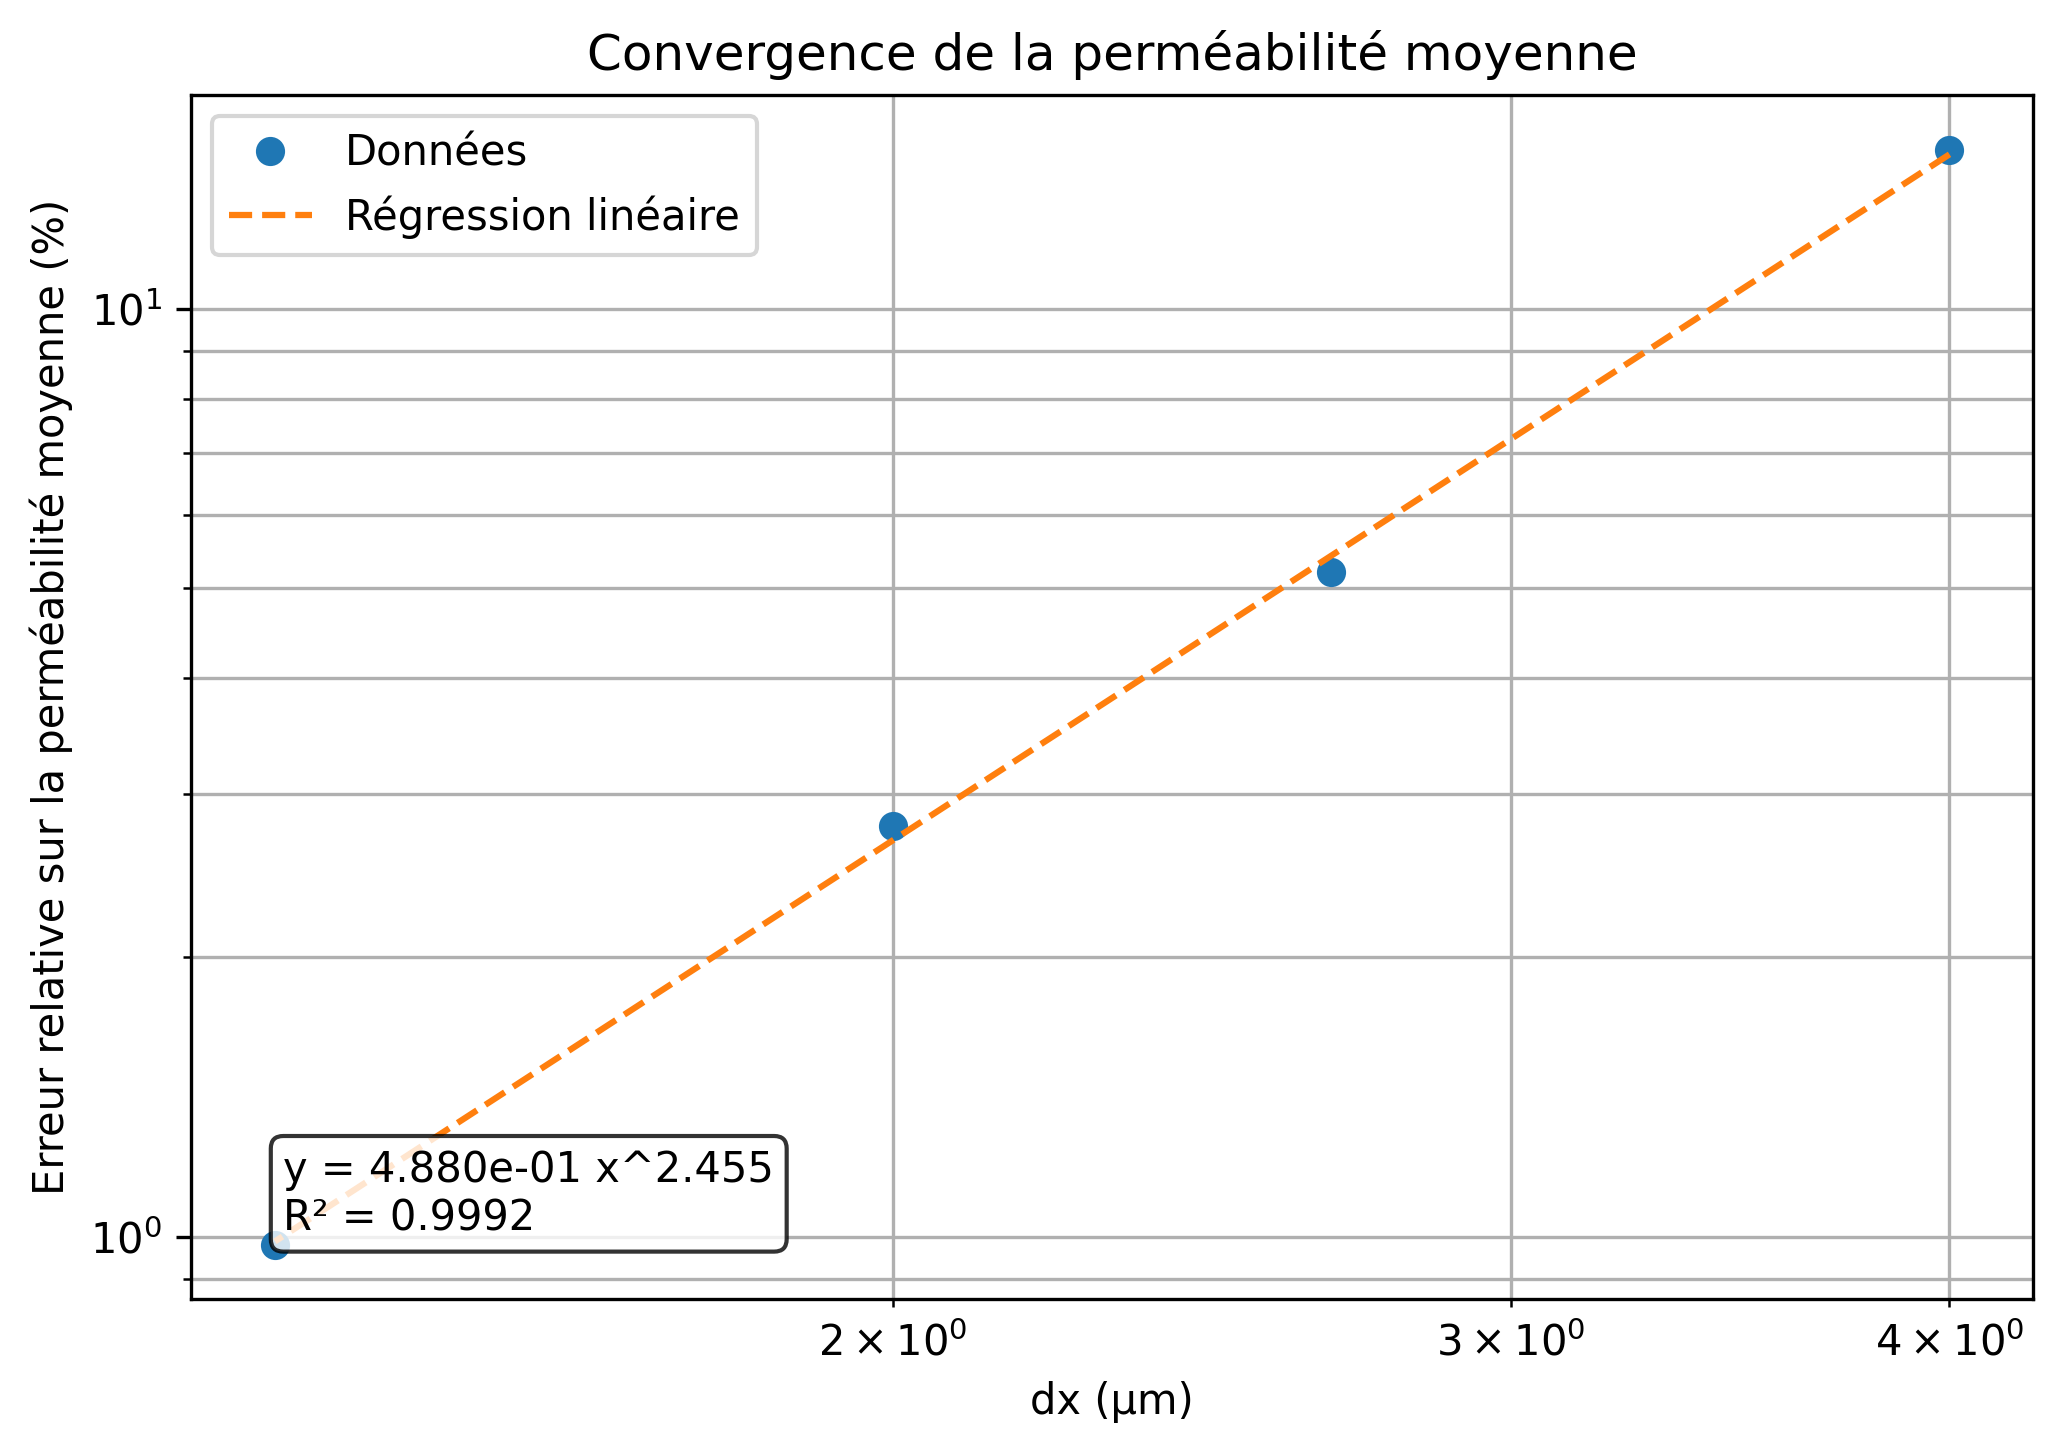
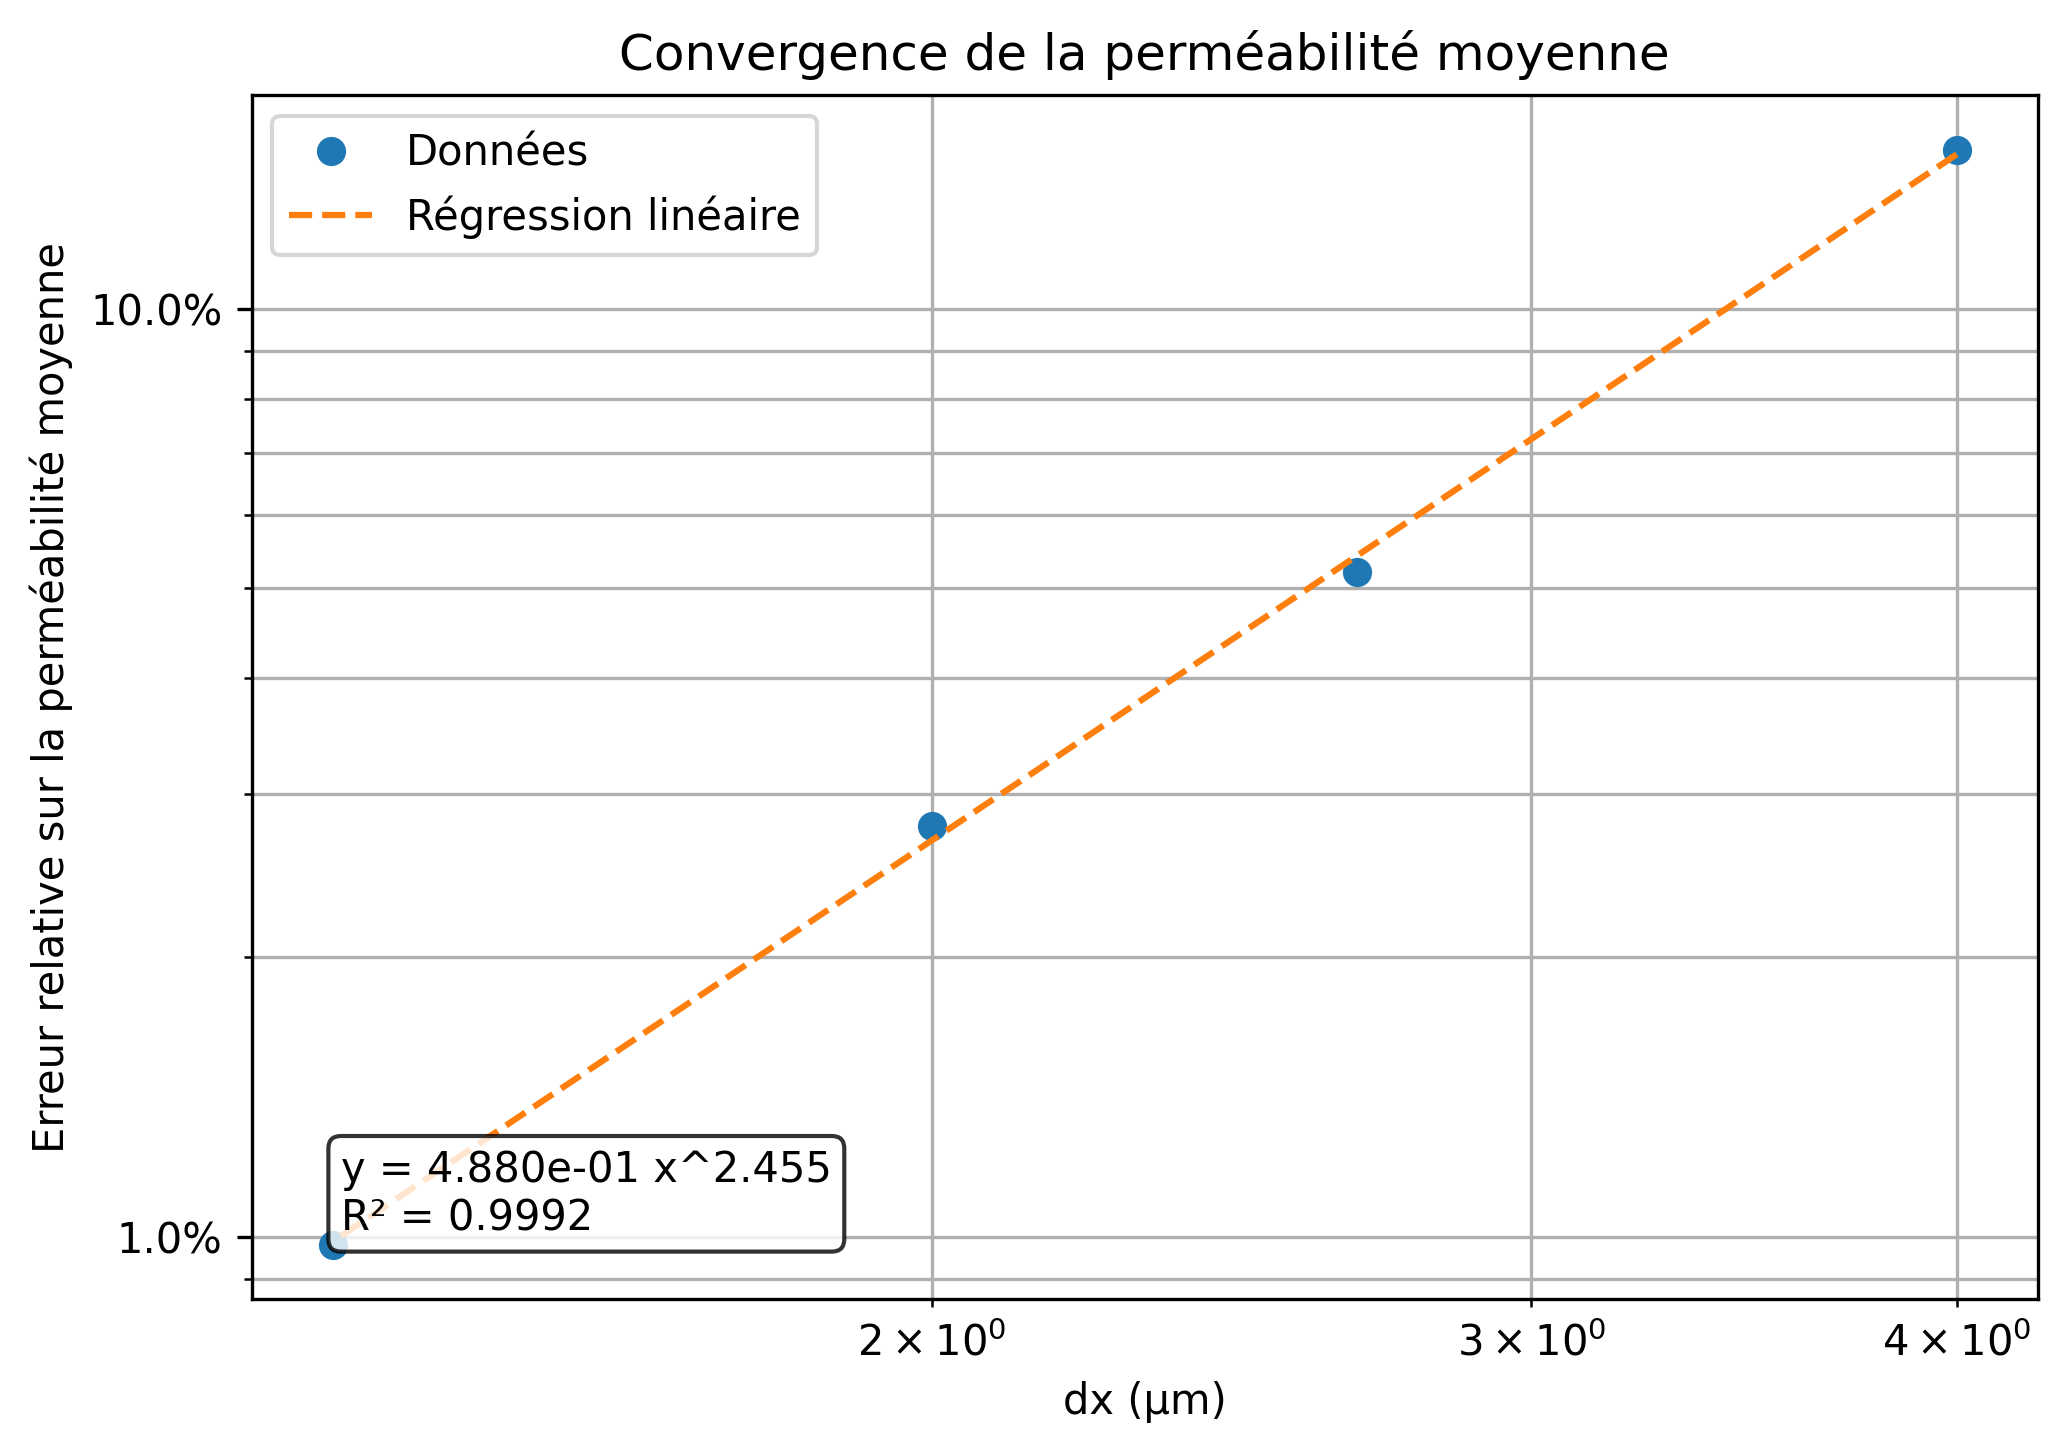
Ajout de comparaison domaine et fix de convergence

diff --git a/Devoir 3/src/gen_convergence.py b/Devoir 3/src/gen_convergence.py
@@ -1,5 +1,7 @@
 import numpy as np
+import os
 import matplotlib.pyplot as plt
+import matplotlib.ticker as mtick
 from lbm_accel import Generate_sample, LBM
 
 def calcul_p_hat(k_list, ratio):
@@ -207,21 +209,29 @@ def gen_convergence_mean_func(deltaP,nx_list,dx_list,seed_list,poro,mean_fiber_d
         f"R² = {r2:.4f}"
     )
 
-    plt.figure(figsize=(7, 5))
-    plt.loglog(x, y, 'o', label="Données")
-    plt.loglog(x, y_fit, '--', label="Régression linéaire")
-    plt.xlabel("dx (μm)")
-    plt.ylabel("Erreur relative sur la perméabilité moyenne (%)")
-    plt.title("Convergence de la perméabilité moyenne")
-    plt.grid(True, which="both")
-    plt.legend()
-    plt.text(
+    fig, ax = plt.subplots(figsize=(7, 5))
+
+    ax.loglog(x, y, 'o', label="Données")
+    ax.loglog(x, y_fit, '--', label="Régression linéaire")
+
+    ax.set_xlabel("dx (μm)")
+    ax.set_ylabel("Erreur relative sur la perméabilité moyenne")
+    ax.set_title("Convergence de la perméabilité moyenne")
+
+    # Affichage de l'axe y en pourcentage
+    ax.yaxis.set_major_formatter(mtick.FormatStrFormatter('%.1f%%'))
+
+    ax.grid(True, which="both")
+    ax.legend()
+
+    ax.text(
         0.05, 0.05, equation_text,
-        transform=plt.gca().transAxes,
+        transform=ax.transAxes,
         fontsize=10,
         verticalalignment='bottom',
         bbox=dict(boxstyle="round", facecolor="white", alpha=0.8)
     )
+
     plt.tight_layout()
     plt.savefig("results/convergence_plot_error.png", dpi=300, bbox_inches="tight")
     plt.show()
@@ -265,4 +275,41 @@ def gen_convergence_mean_func(deltaP,nx_list,dx_list,seed_list,poro,mean_fiber_d
     print(f"Estimated Grid Convergence Index: {GCI:.2f}")
 
     return GCI,p_hat
+
+def plot_domain(deltaP, nx_list, dx_list, seed_list, poro, mean_fiber_d, std_d, filename_base):
+    seed = seed_list[-1]
+
+    os.makedirs("results", exist_ok=True)
+
+    for i, (nx, dx) in enumerate(zip(nx_list, dx_list)):
+        dx_um = dx * 1e6
+        domain_um = nx * dx_um
+
+        tiff_name = f"results/{filename_base}_nx{nx}_dx{dx_um:.2f}um.tiff"
+
+        d_equivalent = Generate_sample(
+            seed=seed,
+            filename=tiff_name,
+            mean_d=mean_fiber_d,
+            std_d=std_d,
+            poro=poro,
+            nx=int(nx),
+            dx=dx,
+            plot=True
+        )
+
+        fig = plt.gcf()
+        ax = plt.gca()
+
+        title = (
+            f"Structure générée\n"
+            f"nx = {nx}, dx = {dx_um:.2f} µm, L = {domain_um:.2f} µm\n"
+            f"Porosité cible = {poro:.3f}, d_eq = {d_equivalent:.3f} µm"
+        )
+        ax.set_title(title)
+
+        png_name = f"results/{filename_base}_nx{nx}_dx{dx_um:.2f}um.png"
+        fig.savefig(png_name, dpi=300, bbox_inches="tight")
+
+        plt.close(fig)
             

diff --git a/Devoir 3/src/lbm_accel.py b/Devoir 3/src/lbm_accel.py
@@ -326,7 +326,7 @@ def LBM(filename, NX, deltaP, dx, d_equivalent, plot=False):
 
 if __name__ == "__main__":
 
-    from gen_convergence import gen_convergence_func, gen_convergence_mean_func
+    from gen_convergence import gen_convergence_func, gen_convergence_mean_func, plot_domain
     from monte_carlo import monte_carlo_func
 
     seed         = 105
@@ -346,3 +346,4 @@ if __name__ == "__main__":
     #monte_carlo_res = monte_carlo_func(deltaP)
 
     GCI, p_hat = gen_convergence_mean_func(deltaP,nx_list,dx_list,seed_list,poro,mean_fiber_d,std_d,filename)
+    plot_domain(deltaP,nx_list,dx_list,seed_list,poro,mean_fiber_d,std_d,filename)
